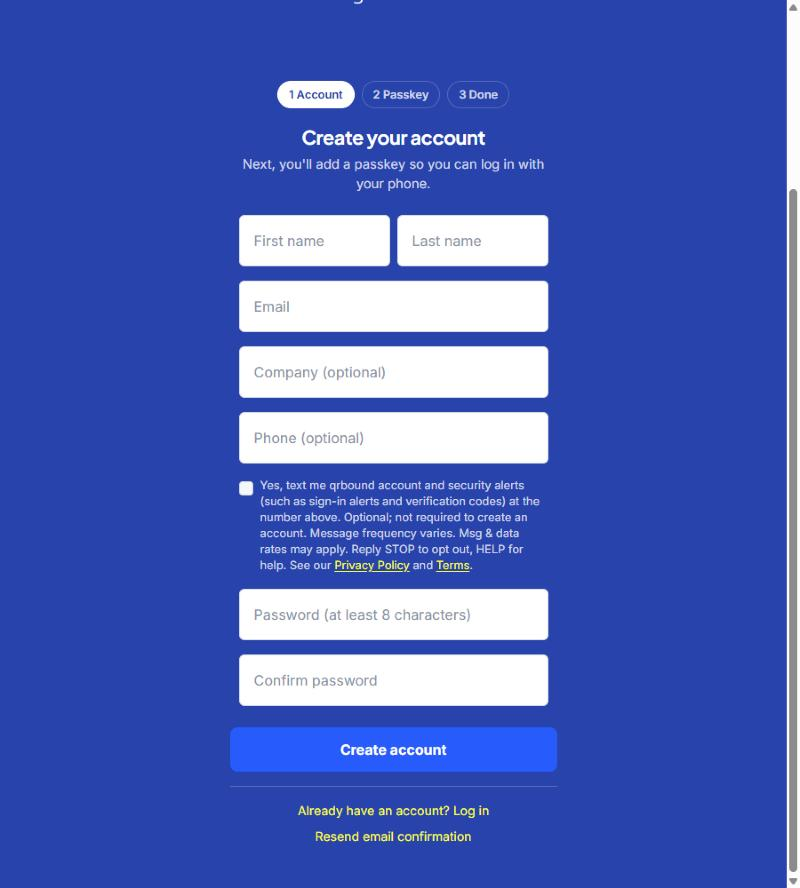
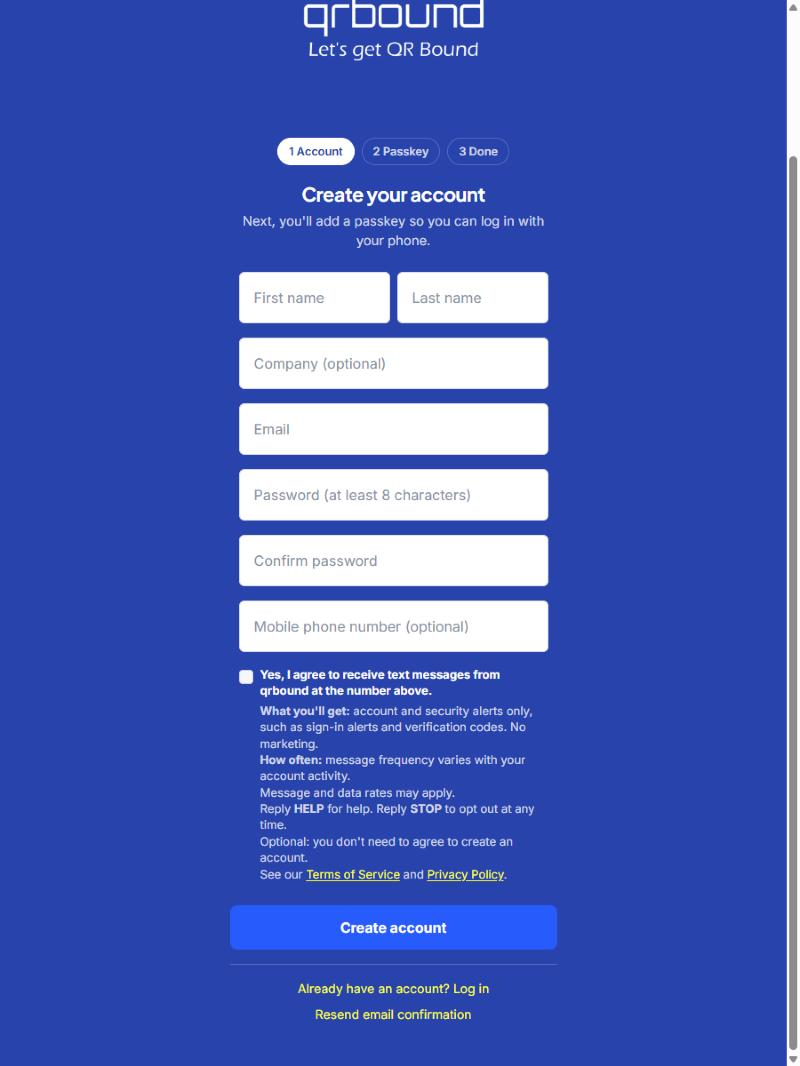
Sign-up: reorder fields and spell out SMS consent
- Order: name, company, email, password, confirm password, mobile
  phone, then the (unchecked) text-message consent checkbox.
- Consent wording lists message type, frequency, rates, HELP/STOP,
  that it's optional, and links to the Terms and Privacy SMS sections;
  the same wording is used in Settings.
- Updated the sign-up and Settings submission screenshots.

diff --git a/src/QRBusinessExchange.Client/wwwroot/css/app.css b/src/QRBusinessExchange.Client/wwwroot/css/app.css
@@ -1377,3 +1377,17 @@ input:focus-visible + .slider {
     margin-top: 1.75rem;
     scroll-margin-top: 4.5rem;
 }
+
+/* Text-message consent wording (sign-up and Settings): one line per point */
+.sms-consent-lead {
+    display: block;
+    margin-bottom: 0.25rem;
+}
+
+.sms-consent-details {
+    display: block;
+}
+
+.sms-consent-details > span {
+    display: block;
+}

diff --git a/src/QRBusinessExchange.Client/wwwroot/css/auth.css b/src/QRBusinessExchange.Client/wwwroot/css/auth.css
@@ -345,10 +345,14 @@
 
 .sms-consent .form-check-label {
     color: var(--auth-muted);
-    font-size: 0.8rem;
+    font-size: 0.82rem;
     line-height: 1.4;
 }
 
 .sms-consent a {
     color: var(--auth-link);
+}
+
+.sms-consent .sms-consent-lead {
+    color: #fff;
 }
